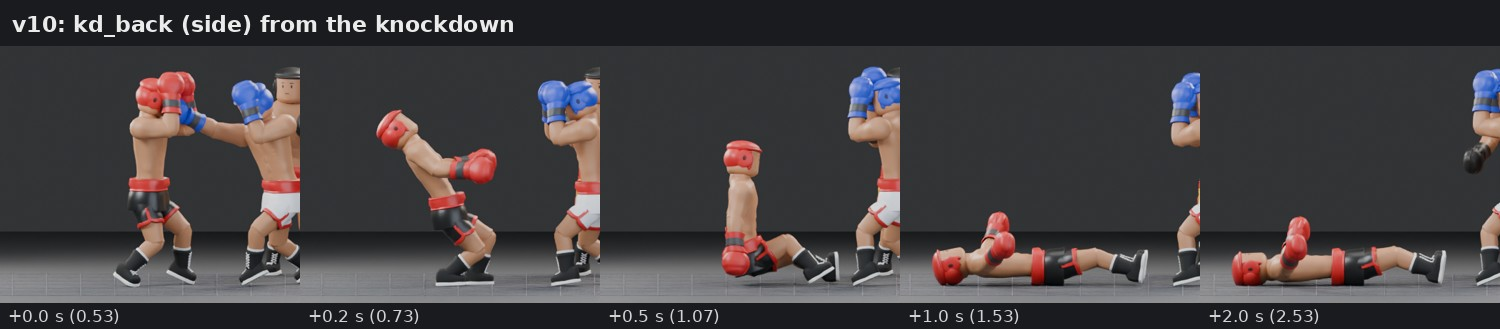
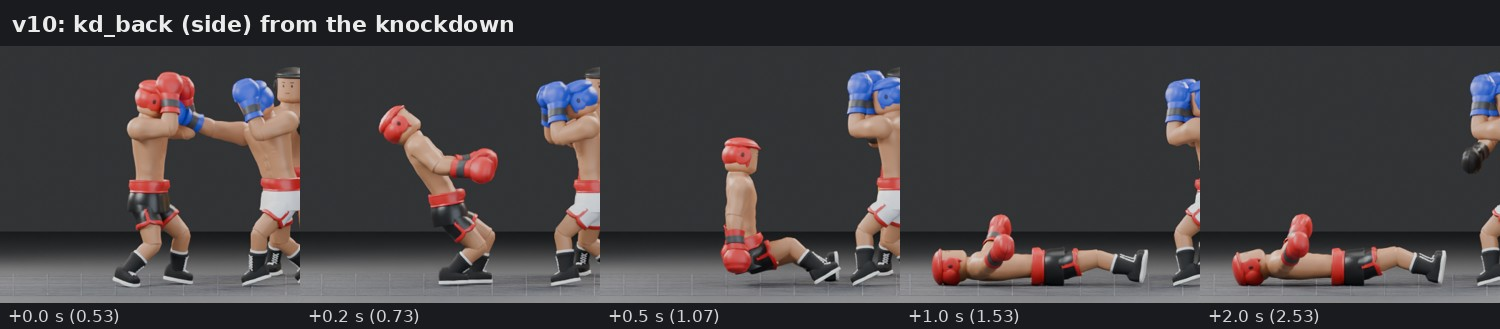
WIP: overhaul checkpoint
Claude-Session: https://claude.ai/code/session_01HNk7DeEaHDaKo3zPgaW9Pz

diff --git a/world-class-boxer/tools/world/render_city_v10.py b/world-class-boxer/tools/world/render_city_v10.py
@@ -1,0 +1,204 @@
+"""Cycles previews of the v10 town (CityMap at real-world scale), on tools/sim/world_render.py's scene builder.
+
+    /opt/bpyenv/bin/python tools/world/render_city_v10.py SCENE.json OUT_DIR [--only view,view] [--samples N]
+                                                           [--res 1280x720] [--figure DIR/<id>.json]
+
+SCENE.json is tools/sim/world_scene.luau's dump (--only city). Views: aerials of the whole map and downtown,
+street-level shots of Main Street (day and night), Champion Ave, the gym forecourt, the park, the arena plaza,
+Oak Street, the waterfront, the Elite / industrial quarter, and three SCALE shots that stand a real boxer
+(tools/sim/v8_scene.luau's export, --figure) next to a parked car, a shop door and a street light.
+"""
+import json
+import math
+import os
+import sys
+
+import numpy as np
+
+HERE = os.path.dirname(os.path.abspath(__file__))
+ROOT = os.path.dirname(os.path.dirname(HERE))
+sys.path.insert(0, os.path.join(ROOT, "tools", "sim"))
+sys.path.insert(0, os.path.join(ROOT, "tools", "hair"))
+import world_render as WR  # noqa: E402
+import v8_render as v8  # noqa: E402
+import bpy  # noqa: E402
+
+CITY = ["server_gym_and_city", "LocalCity", "WorldDetail_city"]
+
+# (eye, target) in Roblox studs; fig = (x, z, yaw degrees) where the scale figure stands (facing -Z at yaw 0)
+VIEWS = {
+    "01_overview_aerial": {"eye": (-1250, 820, 1500), "target": (120, 0, -60), "fov": 48, "mode": "day"},
+    "02_downtown_aerial": {"eye": (-420, 300, 820), "target": (40, 0, 260), "fov": 45, "mode": "day", "cull": ((0, 10, 250), 1100)},
+    "03_main_street_day": {"eye": (-150, 7, 348), "target": (140, 10, 330), "fov": 55, "mode": "day", "cull": ((0, 10, 330), 900), "fig": (-132, 344, 70)},
+    "04_main_street_night": {"eye": (-150, 7, 348), "target": (140, 10, 330), "fov": 55, "mode": "night", "cull": ((0, 10, 330), 700), "exposure": 1.0, "fig": (-132, 344, 70)},
+    "05_champion_ave": {"eye": (16, 7, 292), "target": (0, 14, 120), "fov": 55, "mode": "day", "cull": ((0, 10, 200), 800)},
+    "06_gym_forecourt": {"eye": (-70, 10, 160), "target": (0, 14, 70), "fov": 55, "mode": "day", "cull": ((0, 10, 110), 600)},
+    "07_scale_car": {"eye": (104, 5.5, 130), "target": (88, 3.5, 110), "fov": 50, "mode": "day", "cull": ((90, 5, 115), 400), "fig": (95, 114, 150)},
+    "08_scale_door": {"eye": (-394, 6.5, 344), "target": (-410, 5, 357), "fov": 50, "mode": "day", "cull": ((-410, 5, 350), 400), "fig": (-405, 352.5, 160)},
+    "09_scale_streetlight": {"eye": (-330, 7, 280), "target": (-352, 12, 300), "fov": 55, "mode": "day", "cull": ((-350, 10, 300), 500), "fig": (-347, 295, 140)},
+    "10_park_fountain": {"eye": (400, 9, 120), "target": (480, 8, 40), "fov": 55, "mode": "day", "cull": ((480, 10, 40), 600)},
+    "11_arena_plaza": {"eye": (-110, 14, -430), "target": (0, 32, -570), "fov": 55, "mode": "day", "cull": ((0, 20, -520), 700)},
+    "12_oak_street": {"eye": (-448, 8, 90), "target": (-430, 12, -120), "fov": 55, "mode": "day", "cull": ((-440, 10, -20), 600)},
+    "13_waterfront": {"eye": (836, 8, 170), "target": (920, 8, 40), "fov": 55, "mode": "day", "cull": ((900, 10, 60), 900)},
+    "14_elite_industrial": {"eye": (330, 24, -300), "target": (560, 20, -460), "fov": 55, "mode": "day", "cull": ((480, 20, -430), 700)},
+    "15_estates": {"eye": (-440, 10, -640), "target": (-440, 12, -840), "fov": 55, "mode": "day", "cull": ((-440, 10, -780), 600)},
+    "16_plan_campus": {"eye": (0, 900, -60.01), "target": (0, 0, -60), "ortho": 1000, "mode": "day", "cull": ((0, 10, -60), 800)},
+}
+
+
+def rot_y(deg):
+    a = math.radians(deg)
+    c, s = math.cos(a), math.sin(a)
+    return np.array([[c, 0, s], [0, 1, 0], [-s, 0, c]])
+
+
+def figure_material(name, col):
+    m = bpy.data.materials.new(name)
+    m.use_nodes = True
+    bsdf = m.node_tree.nodes["Principled BSDF"]
+    lin = list(WR.srgb2lin(col)) + [1.0]
+    bsdf.inputs["Base Color"].default_value = lin
+    bsdf.inputs["Roughness"].default_value = 0.65
+    return m
+
+
+def add_mesh(P, T, name, col, smooth=True):
+    me = bpy.data.meshes.new(name)
+    me.from_pydata(WR.to_b(np.asarray(P, dtype=np.float64)).tolist(), [], [tuple(int(i) for i in t) for t in T])
+    me.update()
+    me.materials.append(figure_material(name, col))
+    ob = bpy.data.objects.new(name, me)
+    bpy.context.scene.collection.objects.link(ob)
+    for poly in me.polygons:
+        poly.use_smooth = smooth
+    return ob
+
+
+def add_figure(d, at, yaw):
+    """the exported boxer (tools/sim/v8_scene.luau: feet at y 0, facing -Z) standing at (x, z), turned by yaw"""
+    R = rot_y(yaw)
+    off = np.array([at[0], 0.0, at[1]])
+    skin = d["head"]["color"]
+    for m in d["meshes"]:
+        P = np.asarray(m["p"]).reshape(-1, 3) @ R.T + off
+        T = np.asarray(m["t"]).reshape(-1, 3) - 1
+        add_mesh(P, T, m["name"], m["color"] if m.get("gear") else skin)
+    hd = d["head"]
+    P, T = v8.classic_head(hd["classic"], hd["size"])
+    add_mesh(v8.place(P, hd["cf"], np.zeros(3)) @ R.T + off, T, "Head", hd["color"])
+    for g in d["parts"]:
+        sx, sy, sz = g["size"]
+        sh = g["shape"]
+        if sh == "Ball":
+            P, T = v8.uv_sphere(min(sx, sy, sz) / 2, min(sx, sy, sz) / 2, min(sx, sy, sz) / 2)
+        elif sh == "Cylinder":
+            r = min(sy, sz) / 2
+            P, T = v8.cylinder_x(sx, r, r)
+        elif sh == "Ellipsoid":
+            P, T = v8.uv_sphere(sx / 2, sy / 2, sz / 2)
+        elif sh == "Wedge":
+            P, T = v8.wedge(sx, sy, sz)
+        elif sh == "Head":
+            u = min(sx, sy, sz)
+            P, T = v8.classic_head(d["head"]["classic"], (u, u, u))
+        else:
+            P, T = v8.box(sx, sy, sz)
+        add_mesh(v8.place(P, g["cf"], np.zeros(3)) @ R.T + off, T, g["name"], g["color"], smooth=sh != "Block")
+
+
+def render_view(scene, view, out, samples, res, tmpdir, figure):
+    WR.reset()
+    sc = bpy.context.scene
+    sc.render.engine = "CYCLES"
+    sc.cycles.device = "CPU"
+    sc.cycles.samples = samples
+    sc.cycles.use_denoising = True
+    sc.cycles.max_bounces = 4
+    sc.cycles.diffuse_bounces = 2
+    sc.cycles.glossy_bounces = 2
+    sc.cycles.transparent_max_bounces = 8
+    sc.render.resolution_x, sc.render.resolution_y = res
+    sc.render.image_settings.file_format = "JPEG"
+    sc.render.image_settings.quality = 90
+    sc.view_settings.view_transform = "AgX"
+    sc.view_settings.exposure = view.get("exposure", 0.0)
+    mode = view.get("mode", "day")
+    night = mode == "night"
+    WR.setup_world(mode, view.get("sun", 3.5))
+    B = WR.Builder(tmpdir)
+    centre = np.array(view["cull"][0]) if view.get("cull") else None
+    radius = view["cull"][1] if view.get("cull") else 0
+    nparts = 0
+    for rname in CITY:
+        root = scene["roots"].get(rname)
+        if not root:
+            continue
+        parts = root["parts"]
+        keep = [WR.near(p, centre, radius, view.get("below")) for p in parts]
+        for p, k in zip(parts, keep):
+            if k:
+                B.add_part(p, night)
+                nparts += 1
+        for g in root.get("guis", []):
+            if keep[g["part"] - 1]:
+                B.add_gui(g, parts[g["part"] - 1])
+        for dc in root.get("decals", []):
+            if keep[dc["part"] - 1]:
+                B.add_decal(dc, parts[dc["part"] - 1])
+        for L in root.get("lights", []):
+            if keep[L["part"] - 1]:
+                WR.add_light(L, parts[L["part"] - 1], night, view.get("light_k", 2.0))
+    B.flush()
+    if figure and view.get("fig"):
+        fx, fz, yaw = view["fig"]
+        add_figure(figure, (fx, fz), yaw)
+    cd = bpy.data.cameras.new("cam")
+    if view.get("ortho"):
+        cd.type = "ORTHO"
+        cd.ortho_scale = view["ortho"]
+    cd.lens_unit = "FOV"
+    vf = math.radians(view.get("fov", 60))
+    cd.angle = 2 * math.atan(math.tan(vf / 2) * res[0] / res[1])
+    cd.clip_start = 0.3
+    cd.clip_end = 6000
+    cam = bpy.data.objects.new("cam", cd)
+    sc.collection.objects.link(cam)
+    sc.camera = cam
+    WR.look_at(cam, view["eye"], view["target"])
+    sc.render.filepath = out
+    print("render", os.path.basename(out), "parts", nparts, "guis", B.gui_count, flush=True)
+    bpy.ops.render.render(write_still=True)
+
+
+def main():
+    argv = sys.argv[1:]
+    scene_path, out_dir = argv[0], argv[1]
+    only, samples, res, figure = None, 48, (1280, 720), None
+    i = 2
+    while i < len(argv):
+        a = argv[i]
+        if a == "--only":
+            only = argv[i + 1].split(",")
+            i += 1
+        elif a == "--samples":
+            samples = int(argv[i + 1])
+            i += 1
+        elif a == "--res":
+            res = tuple(int(x) for x in argv[i + 1].split("x"))
+            i += 1
+        elif a == "--figure":
+            figure = json.load(open(argv[i + 1]))
+            i += 1
+        i += 1
+    scene = json.load(open(scene_path))
+    os.makedirs(out_dir, exist_ok=True)
+    tmpdir = os.path.join(os.path.dirname(os.path.abspath(scene_path)), "gui_png")
+    os.makedirs(tmpdir, exist_ok=True)
+    for name, view in VIEWS.items():
+        if only and name not in only:
+            continue
+        render_view(scene, view, os.path.join(out_dir, name + ".jpg"), samples, res, tmpdir, figure)
+
+
+if __name__ == "__main__":
+    main()
